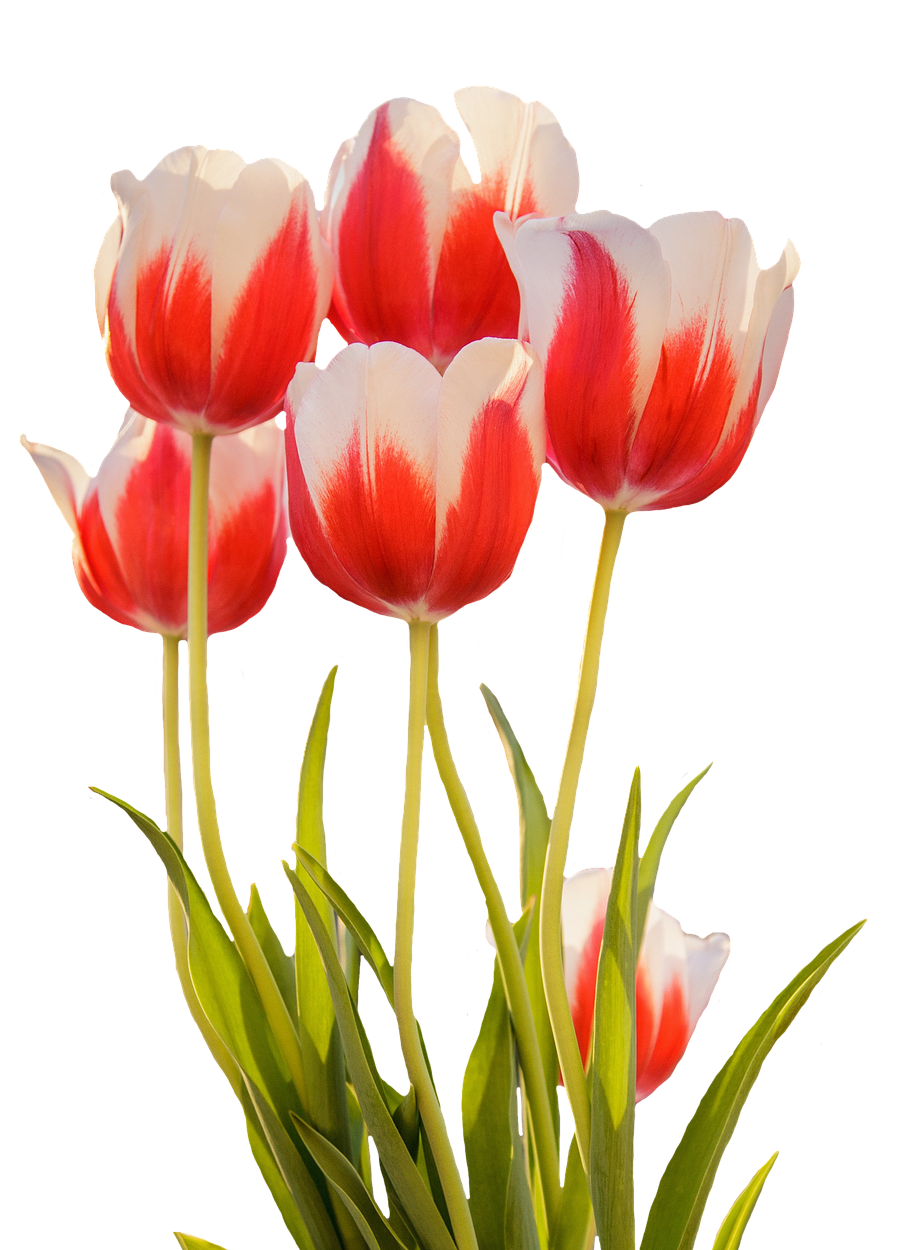
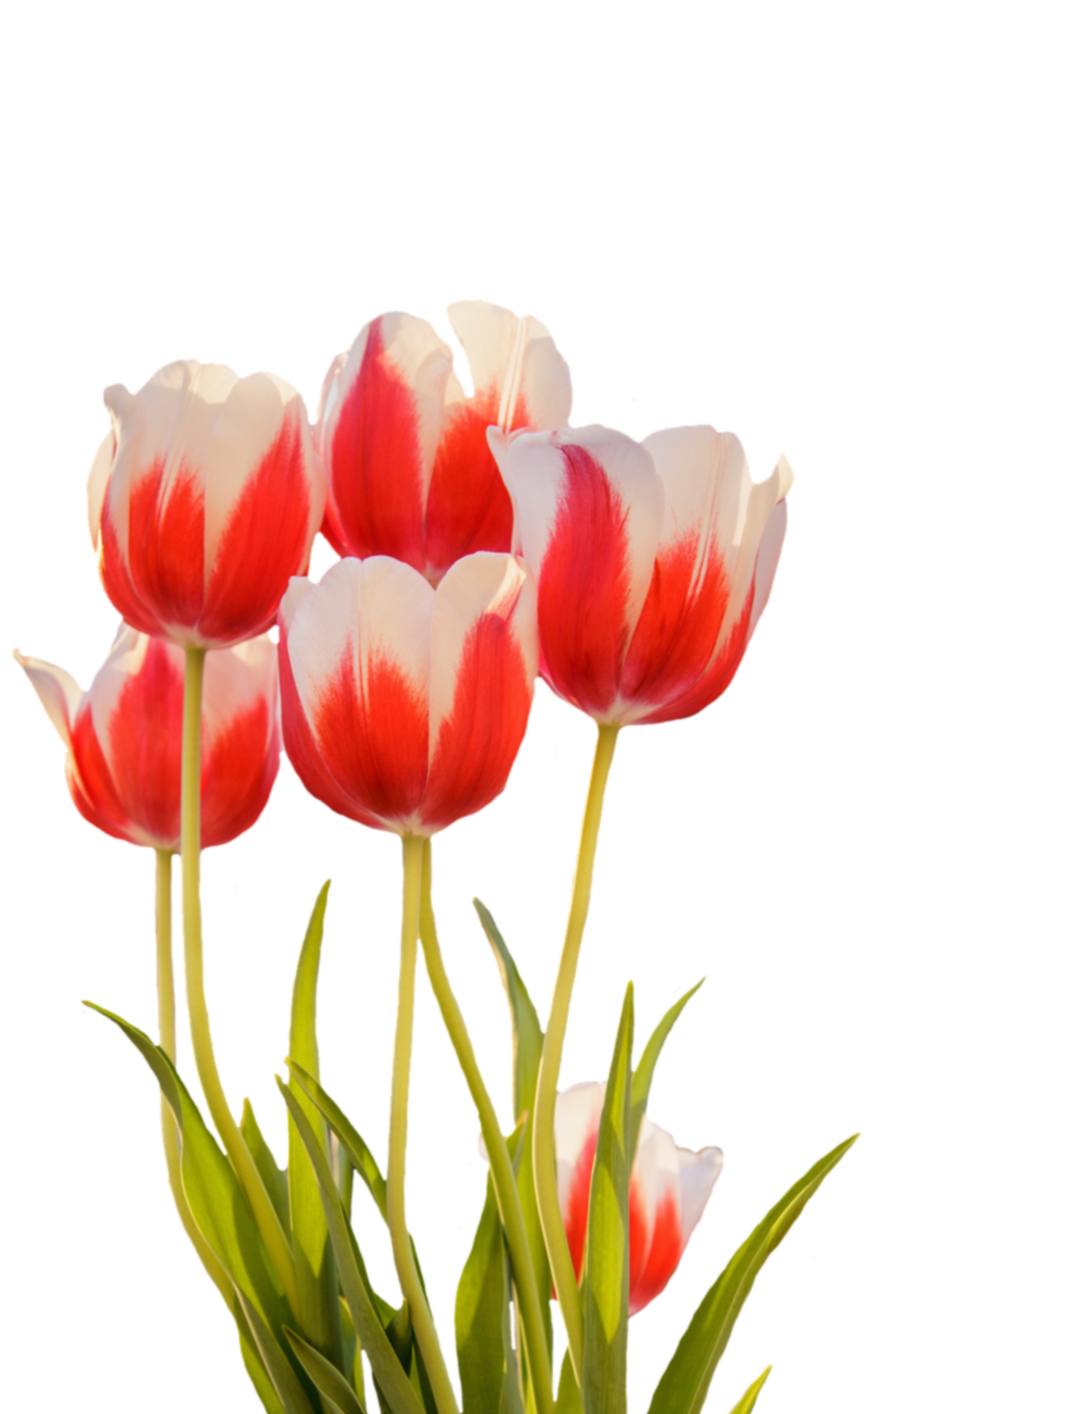
wip background image

diff --git a/styles.css b/styles.css
@@ -66,6 +66,7 @@ body {
 .heroRow {
   font-size: 24px;
   display: flex;
+  height: 550px;
   color: #fff;
   flex-direction: column;
   background-color: #2c3e50;
@@ -136,6 +137,8 @@ body {
   background-color: #f5f5f5;
   background-position: left;
   background-repeat: no-repeat;
+  background-attachment: fixed;
+
   background-size: 900px;
   position: relative;
 }
